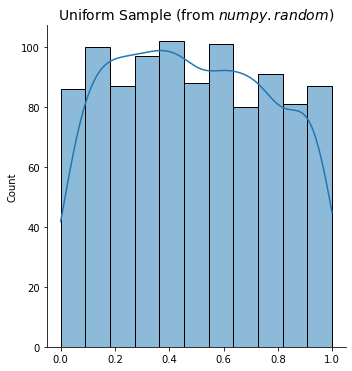
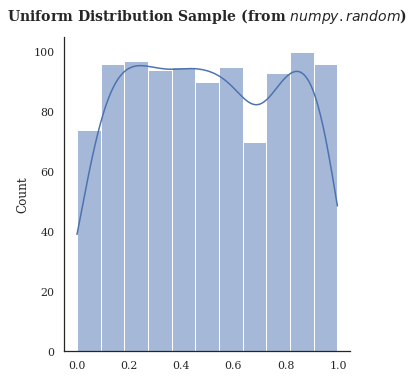
Update sampling article
Improve appearance of images.
Update plotting function.

Changed region(s): [[0.0625, 0.0889, 0.9688, 0.9784], [0.0, 0.0, 1.0, 0.0593], [0.0, 0.4744, 0.0625, 0.5633]]

diff --git a/_posts/2021-04-14-Sampling-from-Probability-Distributions-in-Python.md b/_posts/2021-04-14-Sampling-from-Probability-Distributions-in-Python.md
@@ -45,14 +45,30 @@ To get started locally:
     import random
     import numpy as np
     import scipy
+    from collections.abc import Collection
 
     SAMPLE_SIZE = 1000
 
 
-    def plot(data, title=""):
-        """Plots a histogram with a kernel-density-estimate."""
+    def plot(data: Collection, distribution: str, package: str) -> None:
+        """Plots a combined histogram and kernel-density-estimation plot.
+
+        Parameters
+        ----------
+        data: Collection
+            An array of numerical values.
+        distribution : str
+            The probability distribution being sampled from.
+        package : str
+            The package used to generate the sample.
+        """
         fig = sns.displot(data, kde=True)
-        fig.ax.set_title(title, size=14)
+        fig.ax.set_title(
+            f"{distribution.title()} Distribution Sample (from ${package.lower()}$)",
+            pad=16,
+            size=14,
+            weight=600,
+        )
     ```
 
 [prob_dist_wiki]: https://en.wikipedia.org/wiki/Probability_distribution
@@ -73,7 +89,7 @@ The functions return a *single* `float` value, making it necessary to use loopin
 
 ```python
 random_normal = [random.gauss(mu=0, sigma=1) for _ in range(SAMPLE_SIZE)]
-plot(random_normal, title='Normal Sample (from $random$)')
+plot(random_normal, distribution="Normal", package="random")
 ```
 
 ![random normal]({{ page.img_path | append: 'random_normal.png' }})
@@ -82,7 +98,7 @@ plot(random_normal, title='Normal Sample (from $random$)')
 
 ```python
 random_uniform = [random.uniform(a=0, b=1) for _ in range(SAMPLE_SIZE)]
-plot(random_uniform, title='Uniform Sample (from $random$)')
+plot(random_uniform, distribution="Uniform", package="random")
 ```
 
 ![random uniform]({{ page.img_path | append: 'random_uniform.png' }})
@@ -91,7 +107,7 @@ plot(random_uniform, title='Uniform Sample (from $random$)')
 
 ```python
 random_exponential = [random.expovariate(lambd=1) for _ in range(SAMPLE_SIZE)]
-plot(random_exponential, title='Exponential Sample (from $random$)')
+plot(random_exponential, distribution="Exponential", package="random")
 ```
 
 ![random exponential]({{ page.img_path | append: 'random_exponential.png' }})
@@ -125,7 +141,7 @@ rng = np.random.default_rng(12345)
 
 # loc is the mean, scale is the standard deviation
 random_normal = rng.normal(loc=0, scale=1, size=SAMPLE_SIZE)
-plot(random_normal, title='Normal Sample (from $numpy.random$)')
+plot(random_normal, distribution="Normal", package="numpy.random")
 ```
 
 ![numpy normal]({{ page.img_path | append: 'numpy_normal.png' }})
@@ -134,7 +150,7 @@ plot(random_normal, title='Normal Sample (from $numpy.random$)')
 
 ```python
 random_uniform = rng.uniform(low=0, high=1, size=SAMPLE_SIZE)
-plot(random_uniform, title='Uniform Sample (from $numpy.random$)')
+plot(random_uniform, distribution="Uniform", package="numpy.random")
 ```
 
 ![numpy uniform]({{ page.img_path | append: 'numpy_uniform.png' }})
@@ -144,7 +160,7 @@ plot(random_uniform, title='Uniform Sample (from $numpy.random$)')
 ```python
 # scale 𝛽 = 1/𝜆, 𝜆 is the non-zero expected mean
 random_exponential = rng.exponential(scale=1, size=SAMPLE_SIZE)
-plot(random_exponential, title='Exponential Sample (from $numpy.random$)')
+plot(random_exponential, distribution="Exponential", package="numpy.random")
 ```
 
 ![numpy exponential]({{ page.img_path | append: 'numpy_exponential.png' }})
@@ -173,7 +189,7 @@ The [scipy.stats][scipy_stats] sub-package contains functions that can generate 
 ```python
 # loc is the mean, scale is the standard deviation
 random_normal = scipy.stats.norm.rvs(loc=0, scale=1, size=SAMPLE_SIZE)
-plot(random_normal, title='Normal Sample (from $scipy.stats$)')
+plot(random_normal, distribution="Normal", package="scipy.stats")
 ```
 
 ![scipy normal]({{ page.img_path | append: 'scipy_normal.png' }})
@@ -183,7 +199,7 @@ plot(random_normal, title='Normal Sample (from $scipy.stats$)')
 ```python
 # loc is the lower boundary 𝑎, scale is the range 𝑏−𝑎
 random_uniform = scipy.stats.uniform.rvs(loc=0, scale=1, size=SAMPLE_SIZE)
-plot(random_uniform, title='Uniform Sample (from $scipy.stats$)')
+plot(random_uniform, distribution="Uniform", package="scipy.stats")
 ```
 
 ![scipy uniform]({{ page.img_path | append: 'scipy_uniform.png' }})
@@ -193,7 +209,7 @@ plot(random_uniform, title='Uniform Sample (from $scipy.stats$)')
 ```python
 # scale 𝛽 = 1/𝜆, 𝜆 is the non-zero expected mean
 random_exponential = scipy.stats.expon.rvs(scale=1, size=SAMPLE_SIZE)
-plot(random_exponential, title='Exponential Sample (from $scipy.stats$)')
+plot(random_exponential, distribution="Exponential", package="scipy.stats")
 ```
 
 ![scipy exponential]({{ page.img_path | append: 'scipy_exponential.png' }})
